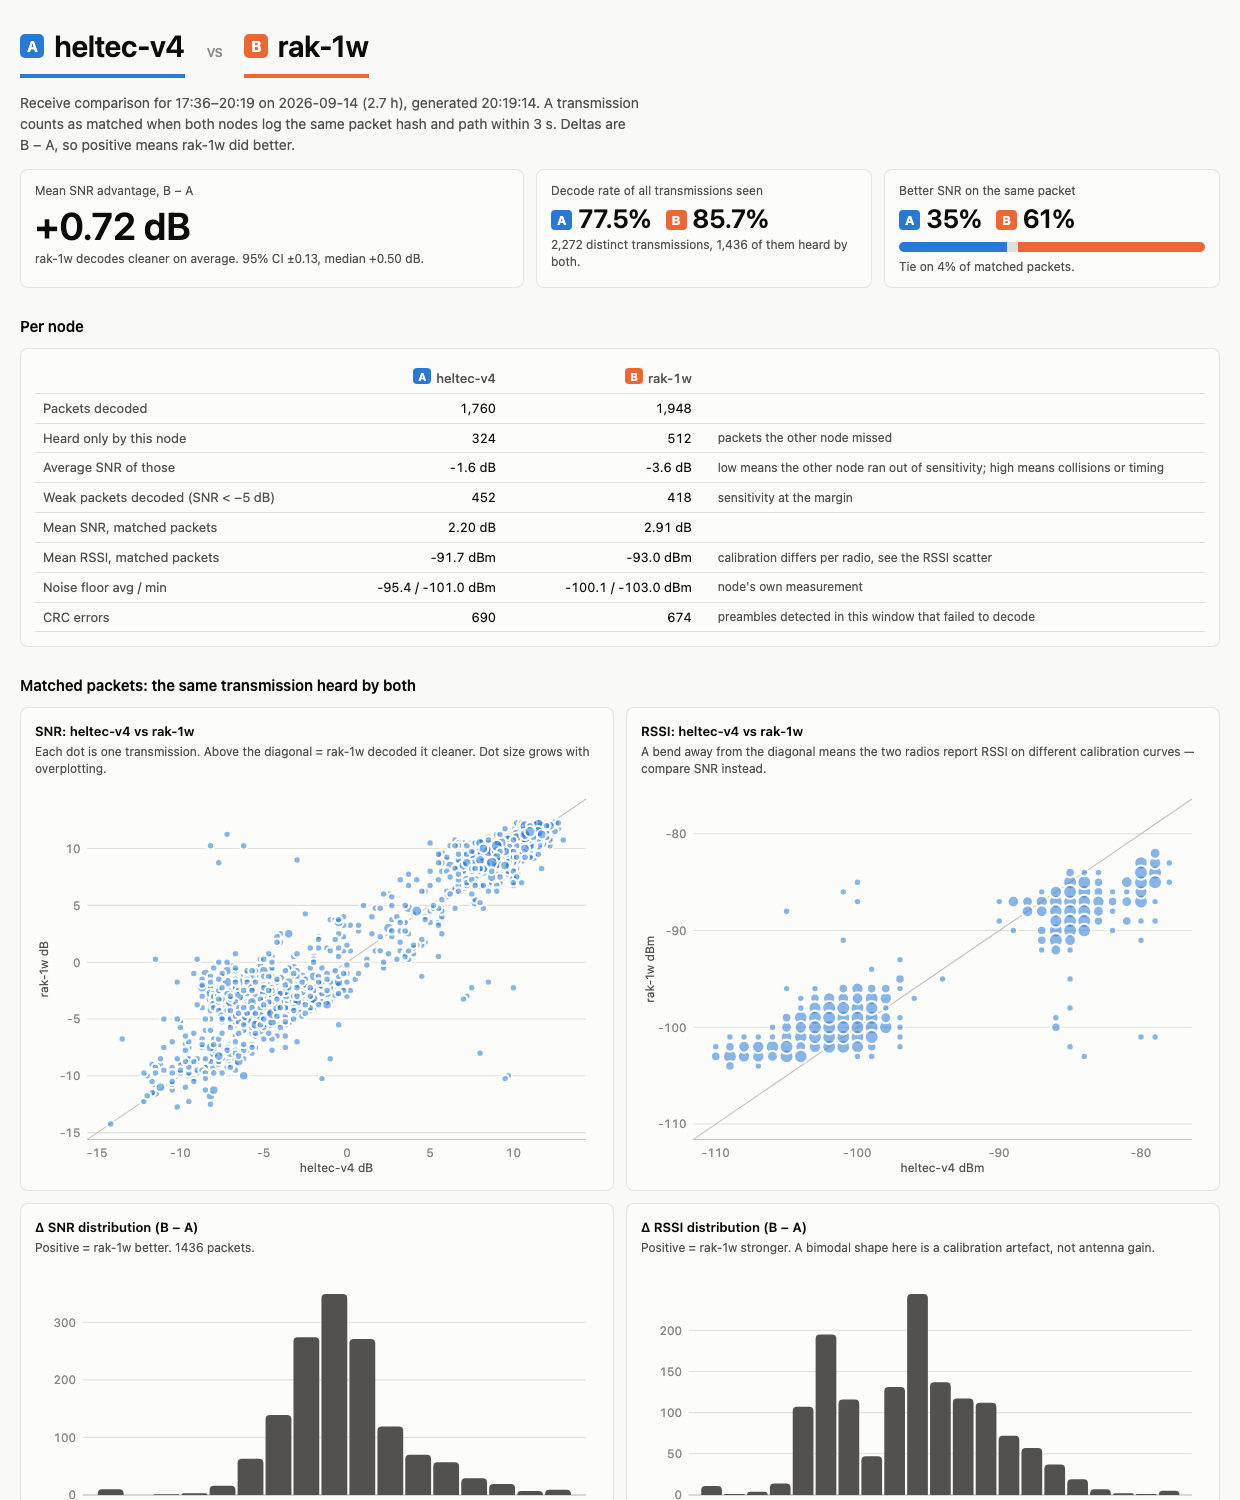
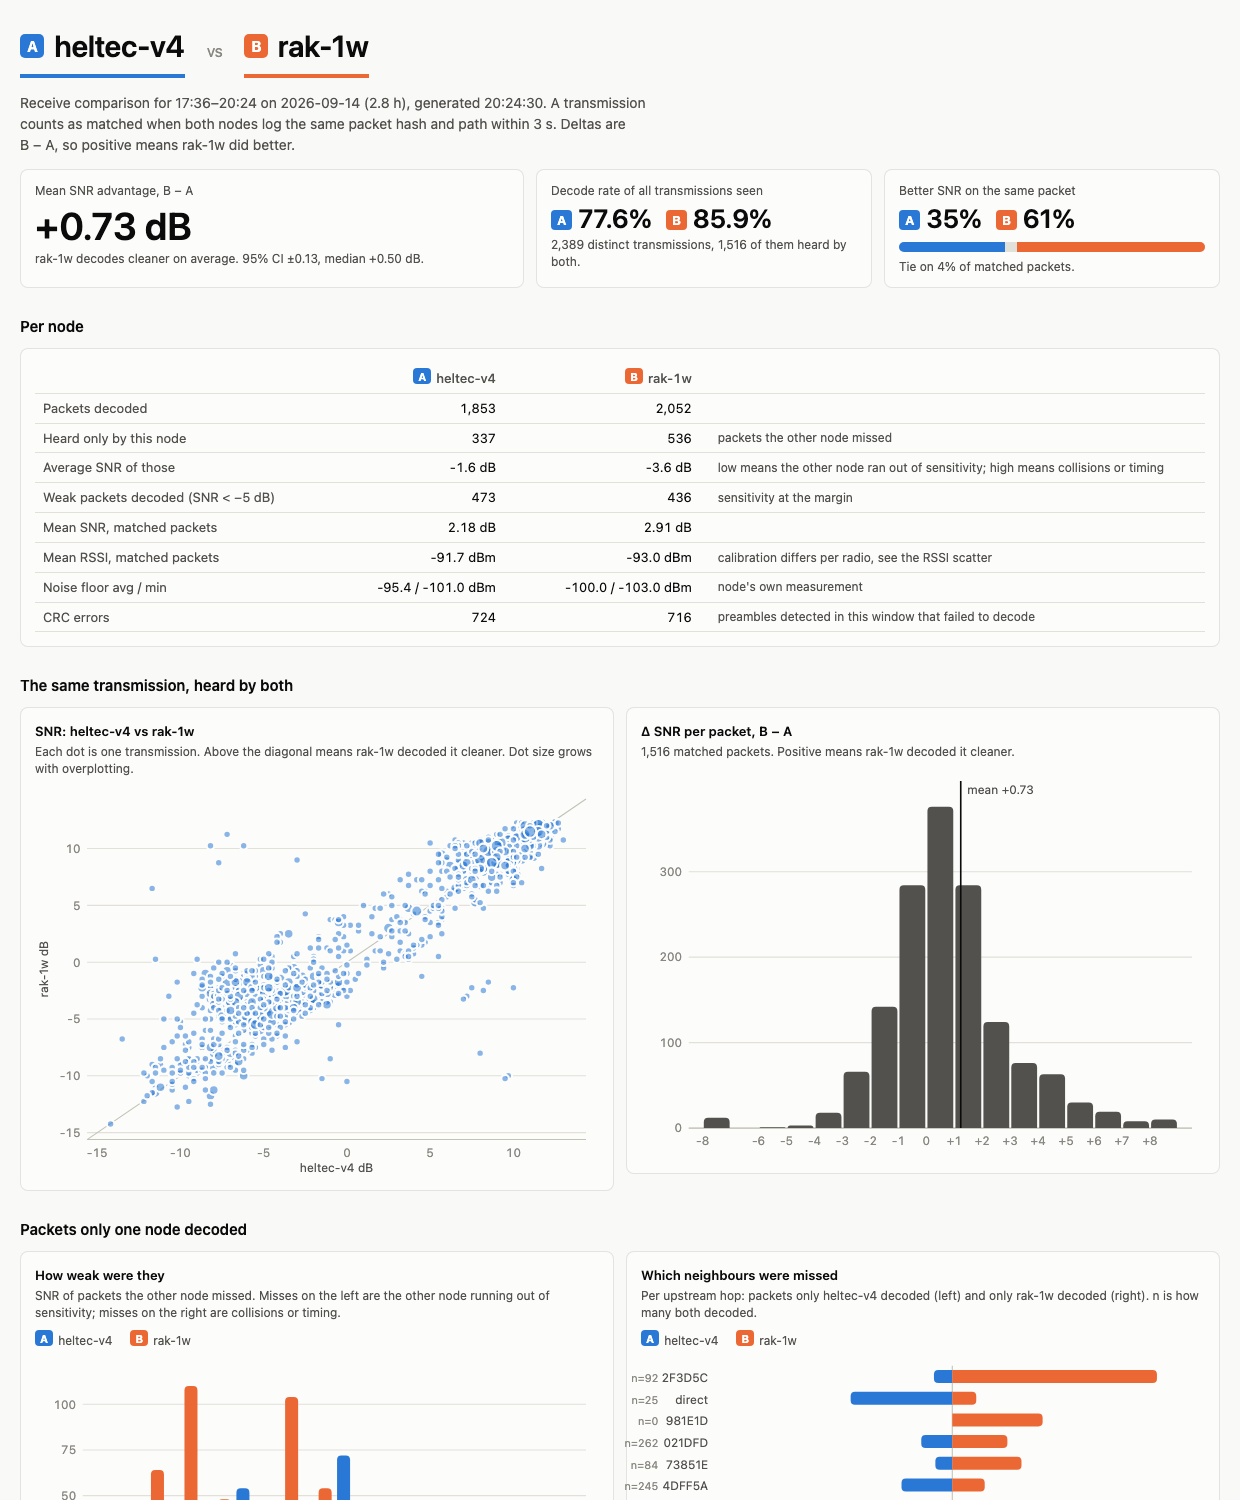
Reorganise report around the reader's questions
Sections now follow: same transmission on both nodes, packets only one
node decoded (with a missed-per-neighbour chart), per neighbour (delta
plus an SNR dumbbell on each node), over time. RSSI charts are demoted
to a collapsed calibration check; the delta histogram marks the mean.

Claude-Session: https://claude.ai/code/session_01PK6k7cjxvt2Sxy1dmL7aHq

diff --git a/rxcompare.py b/rxcompare.py
@@ -307,7 +307,7 @@ table{border-collapse:collapse;width:100%;font-size:13px;font-variant-numeric:ta
 th,td{padding:5px 8px;text-align:right;border-bottom:1px solid var(--grid);white-space:nowrap}th{color:var(--ink2);font-weight:500}
 th:first-child,td:first-child{text-align:left}.wrap{overflow-x:auto}
 .bar{display:inline-block;height:10px;vertical-align:middle;border-radius:0 4px 4px 0}.bar.l{border-radius:4px 0 0 4px}
-details{margin-top:12px}summary{cursor:pointer;color:var(--ink2)}
+details{margin-top:18px}summary{cursor:pointer;color:var(--ink2);font-weight:600;font-size:14px}details[open]>summary{margin-bottom:8px}
 #tip{position:fixed;pointer-events:none;background:var(--ink);color:var(--surface);font-size:12px;padding:6px 8px;border-radius:6px;opacity:0;transition:opacity .08s;white-space:pre;z-index:9}
 """
 
@@ -375,8 +375,9 @@ class Svg:
         return f'<svg viewBox="0 0 {self.w} {self.h}" xmlns="http://www.w3.org/2000/svg">{"".join(self.parts)}</svg>'
 
 
-def chart_hist(values, lo, hi, step, title, unit="dB", color="var(--a)", clamp=True):
-    """Single-series histogram. `values` binned into [lo,hi] by `step`; ends clamped."""
+def chart_hist(values, lo, hi, step, title, unit="dB", color="var(--a)", clamp=True, h=240, marker=None):
+    """Single-series histogram. `values` binned into [lo,hi] by `step`; ends clamped.
+    `marker=(value, label)` draws a vertical reference line."""
     if not values:
         return "<p>no data</p>"
     bins = defaultdict(int)
@@ -386,7 +387,7 @@ def chart_hist(values, lo, hi, step, title, unit="dB", color="var(--a)", clamp=T
             b = max(lo, min(hi, b))
         bins[round(b, 6)] += 1
     xs = sorted(bins)
-    s = Svg()
+    s = Svg(h=h)
     s.scales(lo - step / 2, hi + step * 1.5, 0, max(bins.values()) * 1.08)
     s.axes([x for x in xs if int(round(x / step)) % (2 if step < 1 else 1) == 0], nice_ticks(0, max(bins.values())),
            xfmt=lambda t: f"{t:+g}" if t else "0")
@@ -400,6 +401,65 @@ def chart_hist(values, lo, hi, step, title, unit="dB", color="var(--a)", clamp=T
         s.add(f'<rect class="hit" x="{cx-bw/2-1:.1f}" y="{s.mt}" width="{bw+2:.1f}" height="{s.h-s.mt-s.mb}" '
               f'data-tip="{lbl} {unit}: {n} packets ({100*n/total:.0f}%)"/>')
         s.add(f'<path class="mark" fill="{color}" d="M{cx-bw/2:.1f},{base:.1f}V{top+r:.1f}q0,-{r} {r},-{r}h{bw-2*r:.1f}q{r},0 {r},{r}V{base:.1f}Z"/>')
+    if marker:
+        mv, ml = marker
+        mx = s.x(mv + step / 2)
+        s.add(f'<line x1="{mx:.1f}" x2="{mx:.1f}" y1="{s.mt}" y2="{s.h-s.mb}" stroke="var(--ink)" stroke-width="1.5"/>'
+              f'<text class="lbl" x="{mx+6:.1f}" y="{s.mt+12}" fill="var(--ink)">{esc(ml)}</text>')
+    return s.render()
+
+
+def chart_excl_neighbours(neigh, na, nb):
+    """Diverging counts per upstream hop: packets only A decoded (left) vs only B (right)."""
+    rows = sorted([n for n in neigh if n["a"] + n["b"] >= 3], key=lambda n: -(n["a"] + n["b"]))[:16]
+    if not rows:
+        return "<p>no exclusive packets yet</p>"
+    mx = max(max(n["a"], n["b"]) for n in rows) or 1
+    rh = 20
+    s = Svg(w=520, h=rh * len(rows) + 40, ml=70, mr=16, mt=8, mb=26)
+    s.scales(-mx * 1.15, mx * 1.15, 0, len(rows))
+    s.axes(nice_ticks(-mx, mx, 6), [], xfmt=lambda t: f"{abs(t):g}", y0=False)
+    s.add(f'<line x1="{s.x(0):.1f}" x2="{s.x(0):.1f}" y1="{s.mt}" y2="{s.h-s.mb}" stroke="var(--axis)"/>')
+    for i, n in enumerate(rows):
+        y = s.mt + i * rh + 4
+        for v, col, sign in ((n["a"], "var(--a)", -1), (n["b"], "var(--b)", 1)):
+            if not v:
+                continue
+            x0, x1 = sorted((s.x(0), s.x(sign * v)))
+            w = max(1, x1 - x0); r = min(4, w)
+            d = (f"M{x0:.1f},{y}h{w-r:.1f}q{r},0 {r},{r}v{rh-8-2*r}q0,{r} -{r},{r}h-{w-r:.1f}Z" if sign > 0 else
+                 f"M{x1:.1f},{y}h-{w-r:.1f}q-{r},0 -{r},{r}v{rh-8-2*r}q0,{r} {r},{r}h{w-r:.1f}Z")
+            s.add(f'<path class="mark" fill="{col}" d="{d}"/>')
+        s.add(f'<rect class="hit" x="{s.ml}" y="{y-2}" width="{s.w-s.ml-s.mr}" height="{rh}" data-tip="hop {esc(n["hop"])}: '
+              f'only {esc(na)} {n["a"]}, only {esc(nb)} {n["b"]}, both {n["both"]}"/>')
+        s.add(f'<text x="{s.ml-8}" y="{y+rh-9}" text-anchor="end" fill="var(--ink2)" font-size="11">{esc(n["hop"])}</text>')
+        s.add(f'<text x="{s.ml-8-46}" y="{y+rh-9}" text-anchor="end" fill="var(--muted)" font-size="10">n={n["both"]}</text>')
+    return s.render()
+
+
+def chart_dumbbell(neigh, na, nb):
+    """Per neighbour: mean SNR on A and on B as two dots joined by a line, strongest at the top."""
+    rows = sorted([n for n in neigh if n["both"] >= 3], key=lambda n: -(n["snr_a"] + n["snr_b"]))[:20]
+    if not rows:
+        return "<p>not enough matched packets per neighbour yet</p>"
+    vals = [v for n in rows for v in (n["snr_a"], n["snr_b"])]
+    lo, hi = min(vals) - 1.5, max(vals) + 1.5
+    rh = 20
+    s = Svg(w=520, h=rh * len(rows) + 40, ml=70, mr=16, mt=8, mb=26)
+    s.scales(lo, hi, 0, len(rows))
+    s.axes(nice_ticks(lo, hi, 6), [], xfmt=lambda t: f"{t:+g}" if t else "0", y0=False)
+    if lo < 0 < hi:
+        s.add(f'<line x1="{s.x(0):.1f}" x2="{s.x(0):.1f}" y1="{s.mt}" y2="{s.h-s.mb}" stroke="var(--axis)"/>')
+    for i, n in enumerate(rows):
+        cy = s.mt + i * rh + rh / 2
+        xa, xb = s.x(n["snr_a"]), s.x(n["snr_b"])
+        s.add(f'<rect class="hit" x="{s.ml}" y="{cy-rh/2:.1f}" width="{s.w-s.ml-s.mr}" height="{rh}" data-tip="hop {esc(n["hop"])}, {n["both"]} matched\n'
+              f'SNR {esc(na)} {n["snr_a"]:+.2f}  {esc(nb)} {n["snr_b"]:+.2f}  Δ {n["dsnr"]:+.2f} dB"/>')
+        s.add(f'<line x1="{xa:.1f}" x2="{xb:.1f}" y1="{cy:.1f}" y2="{cy:.1f}" stroke="var(--axis)" stroke-width="2"/>')
+        for x, col in ((xa, "var(--a)"), (xb, "var(--b)")):
+            s.add(f'<circle class="mark" cx="{x:.1f}" cy="{cy:.1f}" r="5" fill="{col}" stroke="var(--surface)" stroke-width="2" pointer-events="none"/>')
+        s.add(f'<text x="{s.ml-8}" y="{cy+4:.1f}" text-anchor="end" fill="var(--ink2)" font-size="11">{esc(n["hop"])}</text>')
+        s.add(f'<text x="{s.ml-8-46}" y="{cy+4:.1f}" text-anchor="end" fill="var(--muted)" font-size="10">n={n["both"]}</text>')
     return s.render()
 
 
@@ -609,7 +669,7 @@ def render_html(R, nav=""):
     excl_note = ""
     for n_, lst in ((na, ex_a), (nb, ex_b)):
         if lst:
-            excl_note += (f'<p style="margin-top:10px"><b>Heard only by {esc(n_)}</b> (never decoded by the other node): '
+            excl_note += (f'<p style="margin-top:10px"><b>Never decoded by the other node:</b> only {esc(n_)} hears '
                           + ", ".join(f"{esc(x['hop'])} ({x['a'] + x['b']})" for x in lst) + "</p>")
     # ---- neighbour table
     nrows = []
@@ -650,33 +710,43 @@ Deltas are B&nbsp;−&nbsp;A, so positive means {esc(nb)} did better.</p>
 <h2>Per node</h2>
 {node_table}
 
-<h2>Matched packets: the same transmission heard by both</h2>
+<h2>The same transmission, heard by both</h2>
 <div class="grid2">
-<div class="card"><h3>SNR: {esc(na)} vs {esc(nb)}</h3><p>Each dot is one transmission. Above the diagonal = {esc(nb)} decoded it cleaner. Dot size grows with overplotting.</p>{chart_scatter(A['snr'], B['snr'], na, nb, 'dB', meta)}</div>
-<div class="card"><h3>RSSI: {esc(na)} vs {esc(nb)}</h3><p>A bend away from the diagonal means the two radios report RSSI on different calibration curves — compare SNR instead.</p>{chart_scatter(A['rssi'], B['rssi'], na, nb, 'dBm', meta)}</div>
-<div class="card"><h3>Δ SNR distribution (B − A)</h3><p>Positive = {esc(nb)} better. {npair} packets.</p>{chart_hist(dsnr, -8, 8, 1, '', color='var(--ink2)')}</div>
-<div class="card"><h3>Δ RSSI distribution (B − A)</h3><p>Positive = {esc(nb)} stronger. A bimodal shape here is a calibration artefact, not antenna gain.</p>{chart_hist(drssi, -10, 10, 1, '', color='var(--ink2)')}</div>
+<div class="card"><h3>SNR: {esc(na)} vs {esc(nb)}</h3><p>Each dot is one transmission. Above the diagonal means {esc(nb)} decoded it cleaner. Dot size grows with overplotting.</p>{chart_scatter(A['snr'], B['snr'], na, nb, 'dB', meta)}</div>
+<div class="card"><h3>Δ SNR per packet, B − A</h3><p>{npair:,} matched packets. Positive means {esc(nb)} decoded it cleaner.</p>{chart_hist(dsnr, -8, 8, 1, '', color='var(--ink2)', h=360, marker=(md, f'mean {md:+.2f}'))}</div>
 </div>
 
-<h2>Packets only one node heard</h2>
-<div class="grid">
-<div class="card"><h3>SNR of exclusive packets</h3><p>Where the other node missed the packet. Weak-signal misses (left) are sensitivity; strong-signal misses (right) are collisions or timing.</p>{leg}{chart_hist2(only_a_snr, only_b_snr, -14, 12, 2, na, nb)}</div>
-<div class="card"><h3>Δ SNR per upstream neighbour (B − A)</h3><p>Averaged over matched packets, last hop with ≥3 matches. Bar colour = the node that hears that neighbour better.</p>{chart_neighbours(R['neighbours'], na, nb)}{excl_note}</div>
+<h2>Packets only one node decoded</h2>
+<div class="grid2">
+<div class="card"><h3>How weak were they</h3><p>SNR of packets the other node missed. Misses on the left are the other node running out of sensitivity; misses on the right are collisions or timing.</p>{leg}{chart_hist2(only_a_snr, only_b_snr, -14, 12, 2, na, nb)}</div>
+<div class="card"><h3>Which neighbours were missed</h3><p>Per upstream hop: packets only {esc(na)} decoded (left) and only {esc(nb)} decoded (right). n is how many both decoded.</p>{leg}{chart_excl_neighbours(R['neighbours'], na, nb)}{excl_note}</div>
+</div>
+
+<h2>By upstream neighbour</h2>
+<div class="grid2">
+<div class="card"><h3>Δ SNR per neighbour, B − A</h3><p>Averaged over matched packets, last hop with at least 3 matches. Bar colour is the node that hears that neighbour better.</p>{chart_neighbours(R['neighbours'], na, nb)}</div>
+<div class="card"><h3>Mean SNR per neighbour, on each node</h3><p>Strongest neighbours at the top. Neighbours near the decode threshold (below about −5 dB) are where a sensitivity difference shows; strong ones tell you little.</p>{leg}{chart_dumbbell(R['neighbours'], na, nb)}</div>
 </div>
 
 <h2>Over time</h2>
 <div class="grid2">
-<div class="card"><h3>Packets received per {R['bucket']//60} min</h3><p>Includes both matched and exclusive packets.</p>{leg}{cnt_chart}</div>
-<div class="card"><h3>Mean Δ SNR per {R['bucket']//60} min (B − A)</h3><p>Should be flat; a drift points at a hardware/temperature/interference change on one side.</p>{dsnr_chart}</div>
-<div class="card"><h3>Noise floor (dBm)</h3><p>From each node's own measurements. Offset between them is partly RSSI calibration.</p>{leg}{noise_chart}</div>
-<div class="card"><h3>CRC errors per {R['bucket']//60} min</h3><p>Preambles detected but not decoded. More CRC errors with the same decode count usually means the radio is hearing further out into the noise.</p>{leg}{crc_chart}</div>
+<div class="card"><h3>Packets decoded per {R['bucket']//60} min</h3><p>Matched and exclusive packets together.</p>{leg}{cnt_chart}</div>
+<div class="card"><h3>Mean Δ SNR per {R['bucket']//60} min, B − A</h3><p>Should be flat. A drift points at a temperature, hardware or interference change on one side.</p>{dsnr_chart}</div>
+<div class="card"><h3>Noise floor, dBm</h3><p>Each node's own measurement. The offset between them is partly RSSI calibration.</p>{leg}{noise_chart}</div>
+<div class="card"><h3>CRC errors per {R['bucket']//60} min</h3><p>Preambles detected but not decoded. More CRC errors at the same decode count usually means the radio hears further out into the noise.</p>{leg}{crc_chart}</div>
 </div>
 
-<h2>Per upstream neighbour</h2>
-<p class="meta" style="margin:-4px 0 10px">Path hashes of different lengths that refer to the same node (<code>DB</code>, <code>DB95</code>, <code>DB9570</code>) are merged under the longest form.</p>
+<details><summary>RSSI calibration check: why the report compares SNR, not RSSI</summary>
+<div class="grid2" style="margin-top:10px">
+<div class="card"><h3>RSSI: {esc(na)} vs {esc(nb)}</h3><p>A bend away from the diagonal means the two radios report RSSI on different calibration curves.</p>{chart_scatter(A['rssi'], B['rssi'], na, nb, 'dBm', meta)}</div>
+<div class="card"><h3>Δ RSSI per packet, B − A</h3><p>A bimodal shape here is a calibration artefact, not antenna gain. Mean {mean(drssi):+.2f} dB.</p>{chart_hist(drssi, -10, 10, 1, '', color='var(--ink2)', h=360)}</div>
+</div></details>
+
+<details open><summary>Per-neighbour table ({len(R['neighbours'])} rows)</summary>
+<p class="meta">Path hashes of different lengths that refer to the same node (<code>DB</code>, <code>DB95</code>, <code>DB9570</code>) are merged under the longest form.</p>
 <div class="card wrap"><table><thead><tr><th>last hop</th><th>both</th><th>only {esc(na)}</th><th>only {esc(nb)}</th>
 <th>RSSI {esc(na)}</th><th>RSSI {esc(nb)}</th><th>Δ RSSI</th><th>SNR {esc(na)}</th><th>SNR {esc(nb)}</th><th>Δ SNR (B−A)</th></tr></thead>
-<tbody>{"".join(nrows)}</tbody></table></div>
+<tbody>{"".join(nrows)}</tbody></table></div></details>
 
 <details><summary>Per-bucket table ({len(bk)} rows)</summary><div class="card wrap"><table><thead><tr><th>bucket</th><th>{esc(na)}</th><th>{esc(nb)}</th><th>both</th><th>Δ RSSI</th><th>Δ SNR</th></tr></thead><tbody>{brows}</tbody></table></div></details>
 <details><summary>All matched packets ({npair} rows)</summary><div class="card wrap"><table><thead><tr><th>time</th><th>hop</th><th>type</th><th>len</th>

diff --git a/README.md b/README.md
@@ -12,8 +12,9 @@ heard (same `packet_hash` + `path_hash` within 3 s), and reports:
 - **decode rate**: of every transmission at least one node heard, the share each node decoded
 - **SNR advantage** per packet (with a confidence interval), per upstream neighbour and over
   time (the fair metric — RSSI is calibrated differently per radio and is shown but flagged as such)
-- packets **only one node** decoded, and how weak they were (sensitivity vs. collisions), plus
-  neighbours that only one node ever hears
+- packets **only one node** decoded: how weak they were (sensitivity vs. collisions) and
+  which neighbours each node misses
+- **per neighbour**: SNR on each node side by side, so threshold-level neighbours stand out
 - noise floor and CRC errors per node, over the same window
 - a self-contained HTML report with hover tooltips, light/dark, phone layout and table views
 
